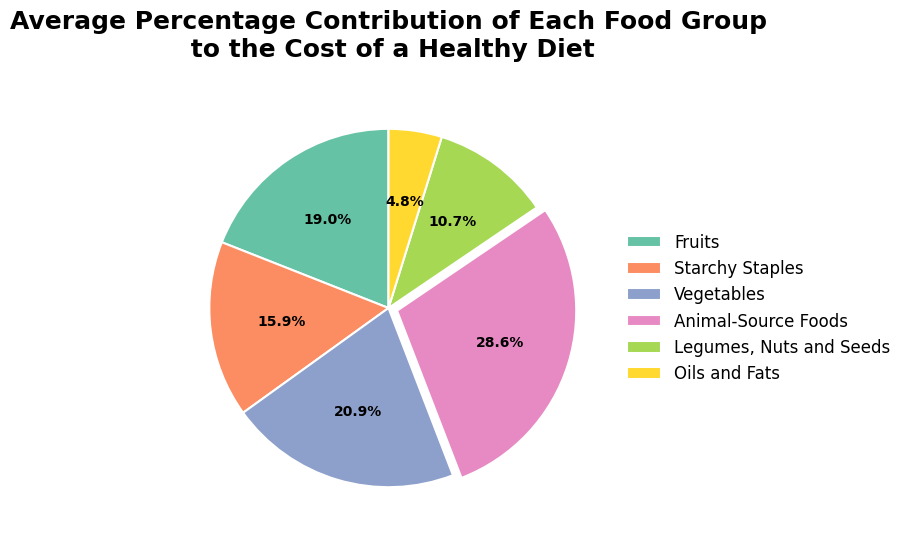
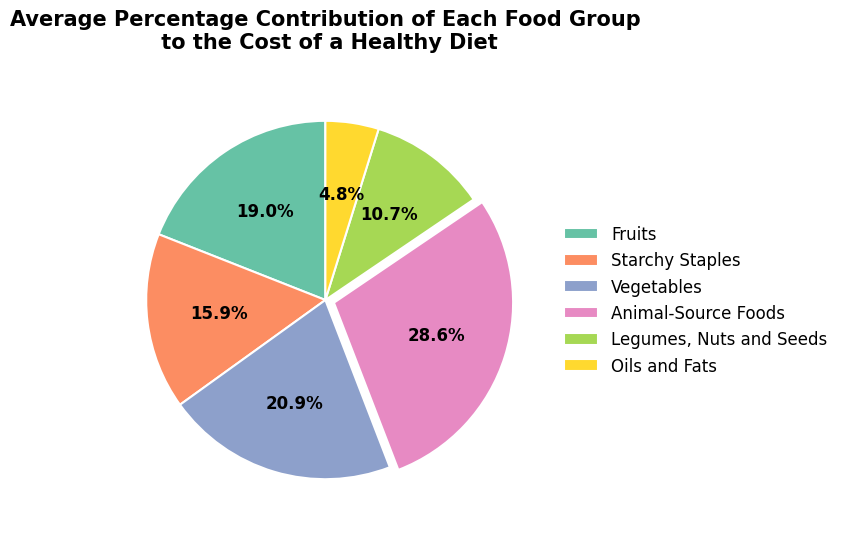
Reduced title size for pie chart for aesthetics

Changed region(s): [[0.1542, 0.2097, 0.987, 0.8989], [0.0, 0.0, 0.8636, 0.1199]]

diff --git a/scripts/create_pie_chart_visualisation.py b/scripts/create_pie_chart_visualisation.py
@@ -32,14 +32,14 @@ plt.pie(
     colors=colors,  # Apply the defined color palette
     explode=explode,  # Separate the "Animal-Source Foods" slice
     wedgeprops={'edgecolor': 'white', 'linewidth': 1.5},  # Add white borders for better slice visibility
-    textprops={'fontsize': 10, 'fontweight': 'bold'}  # Set smaller font size for percentages
+    textprops={'fontsize': 12, 'fontweight': 'bold'}  # Set smaller font size for percentages
 )
 
 # Step 5: Add a title with proper formatting
 # Title is split across two lines for better readability
 plt.title(
     'Average Percentage Contribution of Each Food Group\n to the Cost of a Healthy Diet', 
-    fontsize=18, fontweight='bold', pad=20  # Set font size, weight, and padding
+    fontsize=15, fontweight='bold', pad=20  # Set font size, weight, and padding
 )
 
 # Step 6: Add the legend to the right of the chart
